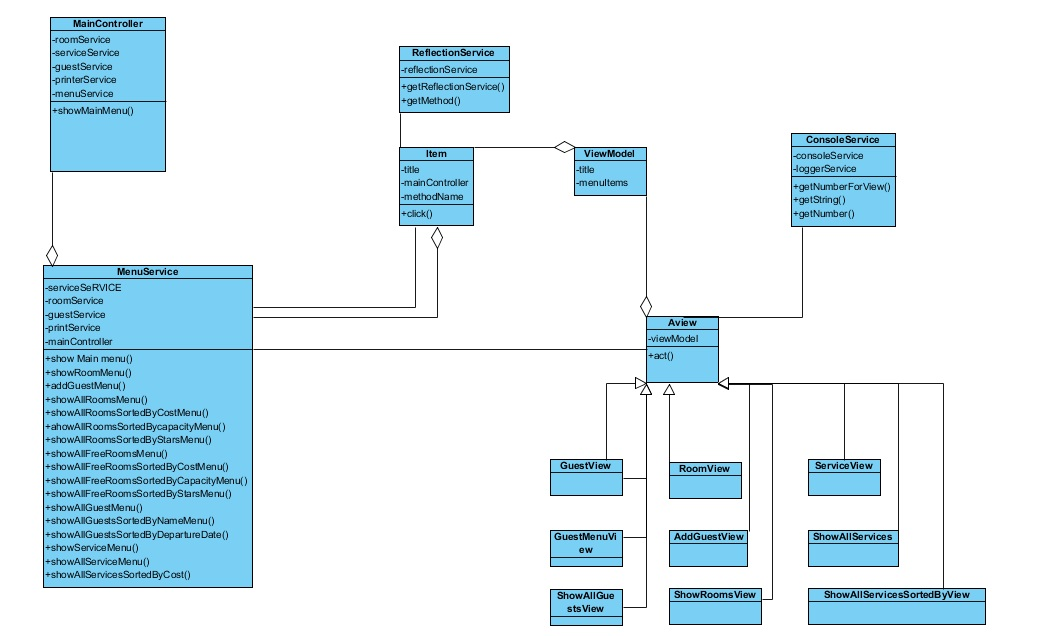
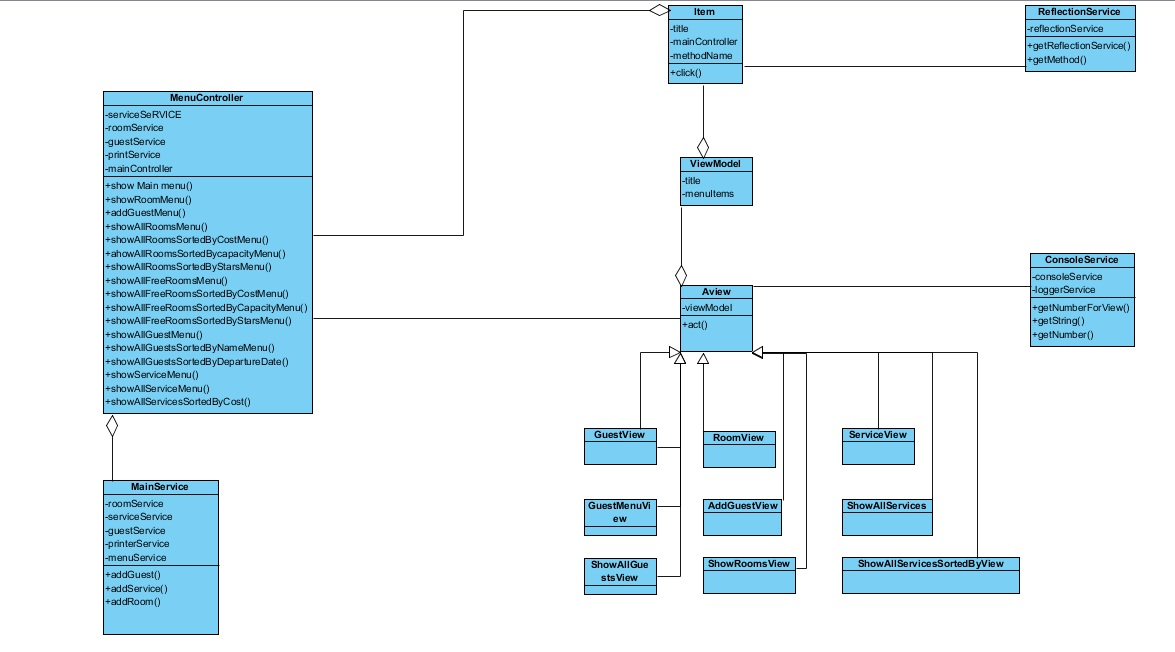
no message

diff --git a/Lesson5/src/ui/controller/MenuController.java b/Lesson5/src/ui/controller/MenuController.java
@@ -1,44 +1,39 @@
-package ui.Service;
+package ui.controller;
 
 
-import Storage.*;
 import entity.Guest;
 import entity.Room;
 import entity.Service;
 import services.*;
 import ui.Service.LoggerService;
 
+import ui.Service.MainService;
 import ui.View.RoomView.AddGuestView;
 import ui.View.RoomView.ShowRoomsView;
 import ui.View.ServiceView.ServiceMenuView;
 import ui.View.ServiceView.ShowAllServicesView;
 import ui.View.ViewItems;
 import ui.View.guestView.ShowAllGuestsView;
-import ui.controller.MainController;
 import ui.menuItem.Item;
 import ui.model.ViewModel;
-import ui.storeFactory.GuestStoreFactory;
-import ui.storeFactory.RoomStoreFactory;
-import ui.storeFactory.ServiceStoreFactory;
 
 import java.util.ArrayList;
-import java.util.List;
 
-public class MenuService {
+public class MenuController {
 
     private IServiceService serviceService;
     private IRoomService roomService;
     private IGuestService guestService;
     private PrinterService printerService;
-    private MainController controller;
+    private MainService mainService;
 
-    public MenuService(IServiceService serviceService, IRoomService roomService, IGuestService guestService, PrinterService printerService, MainController controller) {
-        this.serviceService = serviceService;
-        this.roomService = roomService;
-        this.guestService = guestService;
-        this.printerService = printerService;
-        this.controller = controller;
+    public MenuController() {
 
+        this.mainService = new MainService();
+        this.serviceService=mainService.getServiceService();
+        this.roomService=mainService.getRoomService();
+        this.guestService=mainService.getGuestSerice();
+        this.printerService=mainService.getPrinterService();
 
     }
 
@@ -84,7 +79,7 @@ public class MenuService {
         Item item1 = new Item("Show Main Menu", this, "showMainMenu");
         ViewModel viewModel = new ViewModel("ADD GUEST MENU**************_-_");
         viewModel.addItem(item1);
-        AddGuestView view = new AddGuestView(this.roomService.getFreeRooms(), viewModel, controller);
+        AddGuestView view = new AddGuestView(this.roomService.getFreeRooms(), viewModel, mainService);
         view.showInformation();
         view.addGuest();
         view.act();
@@ -334,5 +329,8 @@ public class MenuService {
         view.act();
     }
 
+    public MainService getMainService() {
+        return mainService;
+    }
 
 }

diff --git a/Lesson5/src/ui/Service/MainService.java b/Lesson5/src/ui/Service/MainService.java
@@ -1,10 +1,9 @@
-package ui.controller;
+package ui.Service;
 
 import Storage.*;
 import entity.Guest;
 import entity.Service;
 import services.*;
-import ui.Service.MenuService;
 import ui.storeFactory.GuestStoreFactory;
 import ui.storeFactory.RoomStoreFactory;
 import ui.storeFactory.ServiceStoreFactory;
@@ -12,16 +11,16 @@ import ui.storeFactory.ServiceStoreFactory;
 /**
  * Created by андрей on 09.10.2017.
  */
-public class MainController {
+public class MainService {
 
     private IServiceService serviceService;
     private IRoomService roomService;
     private IGuestService guestSerice;
     private PrinterService printerService;
-    private MenuService menuService;
 
 
-    public MainController() {
+
+    public MainService() {
 
         IRoomStorage roomStorage = new RoomStoreFactory().createRoomStorage();
         IGuestStorage guestStorage = new GuestStoreFactory().createGuestStorage();
@@ -34,13 +33,7 @@ public class MainController {
         this.serviceService = new ServiceService(guestServiceStorage, serviceStorage);
         this.printerService = new PrinterService();
 
-        this.menuService = new MenuService(serviceService, roomService, guestSerice, printerService, this);
-    }
 
-
-    public void showMainMenu() {
-
-        menuService.showMainMenu();
     }
 
 
@@ -56,5 +49,22 @@ public class MainController {
 
         ReadFromFileService readFromFileService = new ReadFromFileService(roomService);
         readFromFileService.readRooms(path);
+    }
+
+
+    public IRoomService getRoomService() {
+        return roomService;
+    }
+
+    public IGuestService getGuestSerice() {
+        return guestSerice;
+    }
+
+    public IServiceService getServiceService() {
+        return serviceService;
+    }
+
+    public PrinterService getPrinterService() {
+        return printerService;
     }
 }

diff --git a/Lesson5/src/Main.java b/Lesson5/src/Main.java
@@ -1,8 +1,8 @@
 import entity.*;
 
 
-import ui.Service.MenuService;
-import ui.controller.MainController;
+import ui.Service.MainService;
+import ui.controller.MenuController;
 
 import java.lang.reflect.InvocationTargetException;
 
@@ -21,18 +21,19 @@ public class Main {
         Service service3 = new Service(3, ServiceType.EAT, "Spa", 20);
 
 
-        MainController mainController = new MainController();
-        mainController.readRoomsFromFile(args[0]);
-        mainController.addGuest(1, guest1, 2018, 1, 1);
-        mainController.addGuest(1, guest2, 2018, 1, 1);
-        mainController.addGuest(1, guest3, 2018, 1, 1);
-        mainController.addService(service1);
-        mainController.addService(service2);
-        mainController.addService(service3);
+        MenuController controller=new MenuController();
+        MainService mainService=controller.getMainService();
+
+        mainService.readRoomsFromFile(args[0]);
+        mainService.addGuest(1, guest1, 2018, 1, 1);
+        mainService.addGuest(1, guest2, 2018, 1, 1);
+        mainService.addGuest(1, guest3, 2018, 1, 1);
+        mainService.addService(service1);
+        mainService.addService(service2);
+        mainService.addService(service3);
 
 
-        mainController.showMainMenu();
-
+      controller.showMainMenu();
 
     }
 

diff --git a/Lesson5/src/ui/View/RoomView/AddGuestView.java b/Lesson5/src/ui/View/RoomView/AddGuestView.java
@@ -5,17 +5,16 @@ import entity.Guest;
 import entity.Room;
 import ui.Service.ConsoleService;
 import ui.View.AbstractView;
-import ui.Service.MenuService;
-import ui.controller.MainController;
+import ui.Service.MainService;
 import ui.model.ViewModel;
 
 import java.util.List;
 
 public class AddGuestView extends AbstractView {
     private List<Room> allRooms;
-    private MainController controller;
+    private MainService controller;
 
-    public AddGuestView(List<Room> allRooms, ViewModel model, MainController controller) {
+    public AddGuestView(List<Room> allRooms, ViewModel model, MainService controller) {
         super(model);
         this.allRooms = allRooms;
         this.controller = controller;

diff --git a/Lesson5/src/ui/menuItem/Item.java b/Lesson5/src/ui/menuItem/Item.java
@@ -1,6 +1,6 @@
 package ui.menuItem;
 
-import ui.Service.MenuService;
+import ui.controller.MenuController;
 import ui.Service.ReflectionService;
 
 import java.lang.reflect.Method;
@@ -11,9 +11,9 @@ import java.lang.reflect.Method;
 public class Item  {
 
     private String title;
-    private MenuService menuService;
+    private MenuController menuService;
     private String methodName;
-    public Item(String title, MenuService mainController, String methodName) {
+    public Item(String title, MenuController mainController, String methodName) {
         this.title=title;
         this.menuService=mainController;
         this.methodName=methodName;

diff --git a/Lesson5/src/ui/Service/ReflectionService.java b/Lesson5/src/ui/Service/ReflectionService.java
@@ -1,7 +1,7 @@
 package ui.Service;
 
 
-import ui.controller.MainController;
+import ui.controller.MenuController;
 
 import java.lang.reflect.Method;
 
@@ -22,7 +22,7 @@ public class ReflectionService {
     }
 
 
-    public Method getMethod(MenuService mainController, String methodName)  {
+    public Method getMethod(MenuController mainController, String methodName)  {
 
         try {
             Class c = mainController.getClass();
